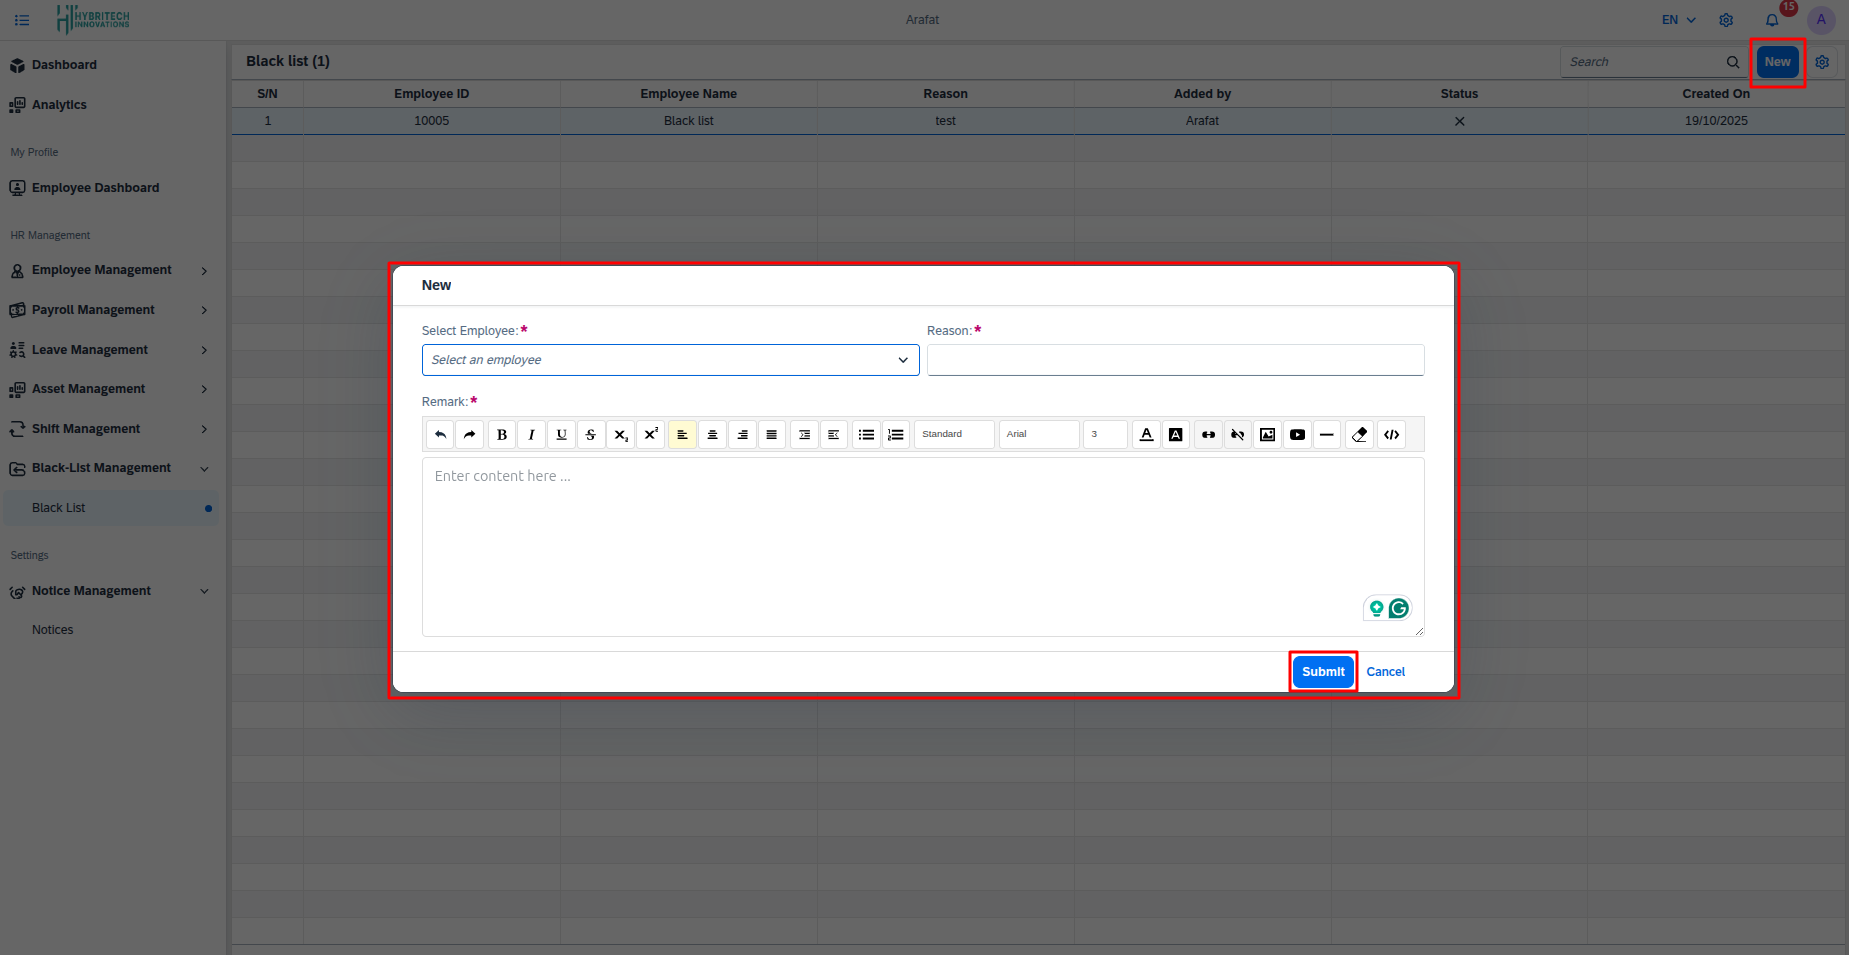
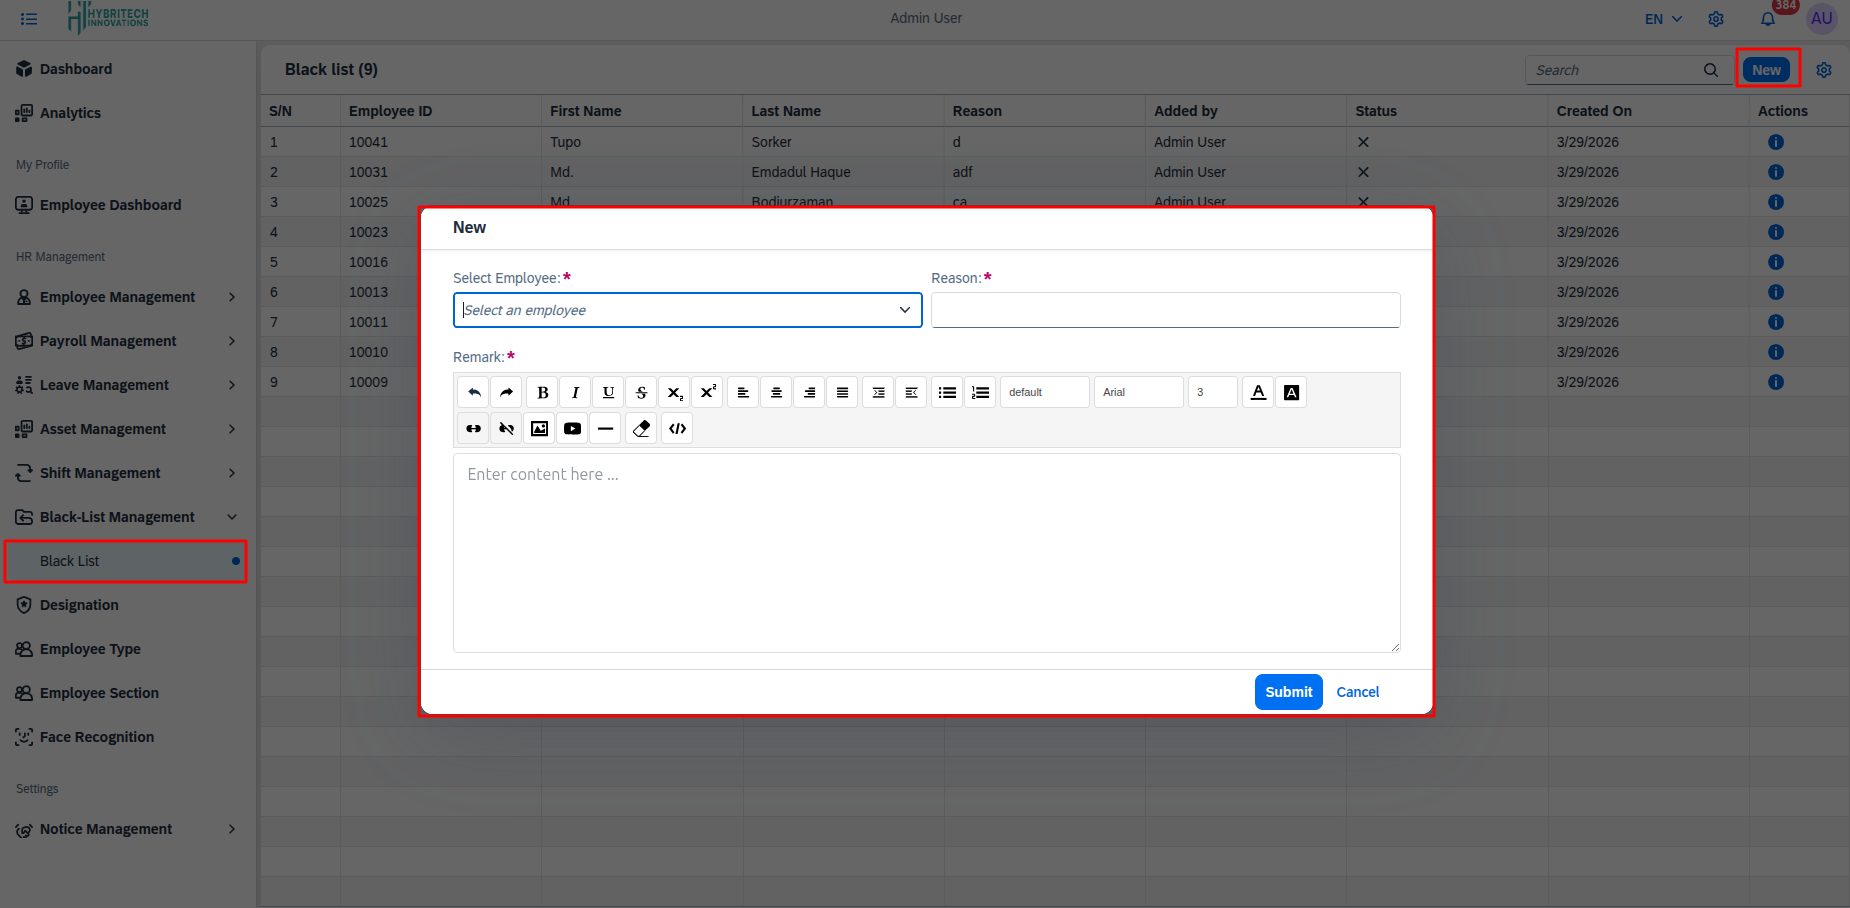
docs: update black list management documentation and refresh associated UI assets

diff --git a/mesdoc/docs/hr-modules/black-list-management/black-list.md b/mesdoc/docs/hr-modules/black-list-management/black-list.md
@@ -1,11 +1,52 @@
 ---
-sidebar-position: 1
+sidebar_position: 1
+description: Manage and record employees who have committed offenses or serious policy violations.
 ---
 
-## Black List
+# Black List Management
 
-![Black list](/img/hr/black-list/black-list.png)
+The **Black List Management** module is designed to track and restrict employees who have committed serious offenses, crimes, or major policy violations. 
 
-## Black List View
+:::important
+When an employee is added to the **Black List**, their status is automatically set to **Inactive**, and they are immediately **blocked from logging into the employee portal**.
+:::
 
-<!-- ![Black list view](/img/hr/black-list/black-list-view.png) -->
+![Black List Overview](/img/hr/black-list/black-list.png)
+
+## Viewing the Black List
+
+The main dashboard provides a summary of all blacklisted individuals:
+
+- **Employee ID & Name**: Unique identification of the individual.
+- **Reason**: A brief category or reason for the blacklisting (e.g., Financial, Behavioral).
+- **Added by**: The admin or HR user who performed the action.
+- **Status**: Visual indicator of the block (typically marked with an **X**).
+- **Created On**: The date the entry was recorded.
+- **Actions**: Click the **Info (ℹ)** icon to view detailed remarks.
+
+### Searching Entries
+Use the **Search** bar at the top-right to quickly find specific employees by their name or ID.
+
+## Adding an Employee to the Black List
+
+To blacklist an employee:
+
+1. Click the **+ New** button.
+2. In the modal that appears:
+   - **Select Employee**: Choose the employee from the searchable dropdown.
+   - **Reason**: Provide a short, concise reason (e.g., "Company Policy Violation").
+   - **Remark**: Use the rich text editor to provide full documentation of the incident or offense.
+3. Click **Submit**.
+
+![Add to Black List](/img/hr/black-list/black-add.png)
+
+### Validation Errors
+The system requires all fields to be populated. If any required field (Employee, Reason, or Remark) is left blank, a "This field is required" error will be displayed.
+
+![Black List Validation Error](/img/hr/black-list/black-error-message.png)
+
+## Viewing Black List Details
+
+To review the full context of a blacklist entry, click the **Info (ℹ)** icon in the Actions column. The **Details** modal will display the employee name, the categorized reason, and the complete formatted remarks recorded at the time of the incident.
+
+![Black List View Details](/img/hr/black-list/black-view.png)
